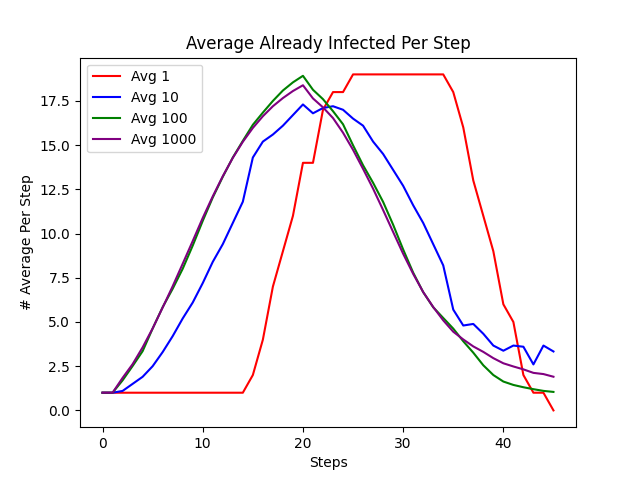
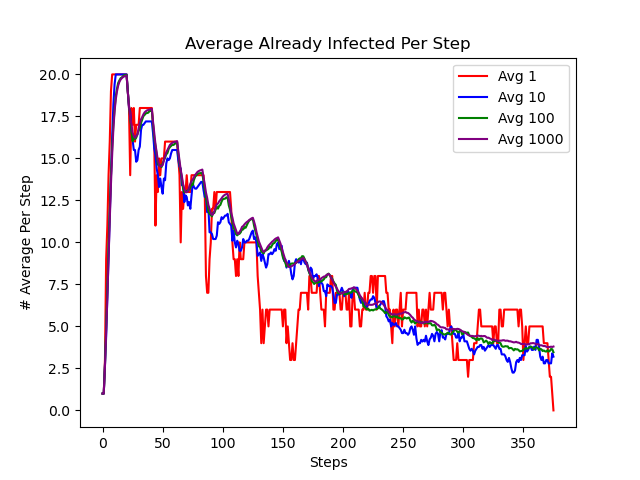
Add resiliance

diff --git a/main.py b/main.py
@@ -10,6 +10,7 @@ infectionRadius = 1     #Radius of potential infection
 steps = 20              #Steps until death or recovery chance
 deathchance = 10        #Percent chance of death
 recoverychance = 90     #Percent chance of recovery
+resilience = 0 #Used to determine potential chance of infection
 SocDist = 2             #Allowed amount of steps for social distancing
 numOfPeople = 20        #Population of people on grid
 grid=[]                 #List to make grid matrix
@@ -33,7 +34,7 @@ class Person(object):
         self.immune=False           #Immunity flag
         self.timeSinceInfection=0   #Time elapsed since infected
         self.dead=False             #Death flag
-        self.resilience = random.randrange(100) #Used to determine potential chance of infection
+        
     def __str__(self):
         if self.infected == True:
             return "I"
@@ -115,6 +116,7 @@ class Person(object):
         # 0 = up 1 = down 2=left 3=right
         global infectionRadius
         global numInfected
+        global resilience
         
         if self.infected == False:
             return
@@ -122,43 +124,51 @@ class Person(object):
             for j in range(1,infectionRadius+1):
                 if i == 0:
                     if (self.y-j > 0) and (grid_[self.x][self.y-j] != 0) and (grid_[self.x][self.y-j].infected == False):
-                        grid_[self.x][self.y-j].infected=True
-                        numInfected+=1
+                        if(resilience < random.randrange(100)):
+                            grid_[self.x][self.y-j].infected=True
+                            numInfected+=1
                         break
                 elif i == 1:
                     if (self.y+j < boardSIZE-1) and (grid_[self.x][self.y+j] != 0) and (grid_[self.x][self.y+j].infected == False):
-                        grid_[self.x][self.y+j].infected=True
-                        numInfected+=1
+                        if(resilience < random.randrange(100)):
+                            grid_[self.x][self.y+j].infected=True
+                            numInfected+=1
                         break
                 elif i == 2:
                     if  (self.x-j > 0) and (grid_[self.x-j][self.y] != 0) and (grid_[self.x-j][self.y].infected == False):
-                        grid_[self.x-j][self.y].infected=True
-                        numInfected+=1
+                        if(resilience < random.randrange(100)):
+                            grid_[self.x-j][self.y].infected=True
+                            numInfected+=1
                         break
                 elif i == 3:
                     if (self.x+j < boardSIZE-1) and (grid_[self.x+j][self.y] != 0) and (grid_[self.x+j][self.y].infected == False):
-                        grid_[self.x+j][self.y].infected=True
-                        numInfected+=1
+                        if(resilience < random.randrange(100)):
+                            grid_[self.x+j][self.y].infected=True
+                            numInfected+=1
                         break
                 elif i == 4:
                     if (self.x+j < boardSIZE-1) and (self.y+j < boardSIZE-1) and (grid_[self.x+j][self.y+j] != 0) and (grid_[self.x+j][self.y+j].infected == False):
-                        grid_[self.x+j][self.y+j].infected=True
-                        numInfected+=1
+                        if(resilience < random.randrange(100)):
+                            grid_[self.x+j][self.y+j].infected=True
+                            numInfected+=1
                         break
                 elif i == 5:
                     if (self.x+j < boardSIZE-1) and (self.y-j > 0) and (grid_[self.x+j][self.y-j] != 0) and (grid_[self.x+j][self.y-j].infected == False):
-                        grid_[self.x+j][self.y-j].infected=True
-                        numInfected+=1
+                        if(resilience < random.randrange(100)):
+                            grid_[self.x+j][self.y-j].infected=True
+                            numInfected+=1
                         break
                 elif i == 6:
                     if (self.x-j > 0)and (self.y+j < boardSIZE-1) and (grid_[self.x-j][self.y+j] != 0) and (grid_[self.x-j][self.y+j].infected == False):
-                        grid_[self.x-j][self.y+j].infected=True
-                        numInfected+=1
+                        if(resilience < random.randrange(100)):
+                            grid_[self.x-j][self.y+j].infected=True
+                            numInfected+=1
                         break
                 elif i == 7:
                     if (self.x-j > 0) and (self.y-j > 0) and (grid_[self.x-j][self.y-j] != 0) and (grid_[self.x-j][self.y-j].infected == False):
-                        grid_[self.x-j][self.y-j].infected=True
-                        numInfected+=1
+                        if(resilience < random.randrange(100)):
+                            grid_[self.x-j][self.y-j].infected=True
+                            numInfected+=1
                         break
 
     def liveOrDie(self, grid_,diechance,livechance):
